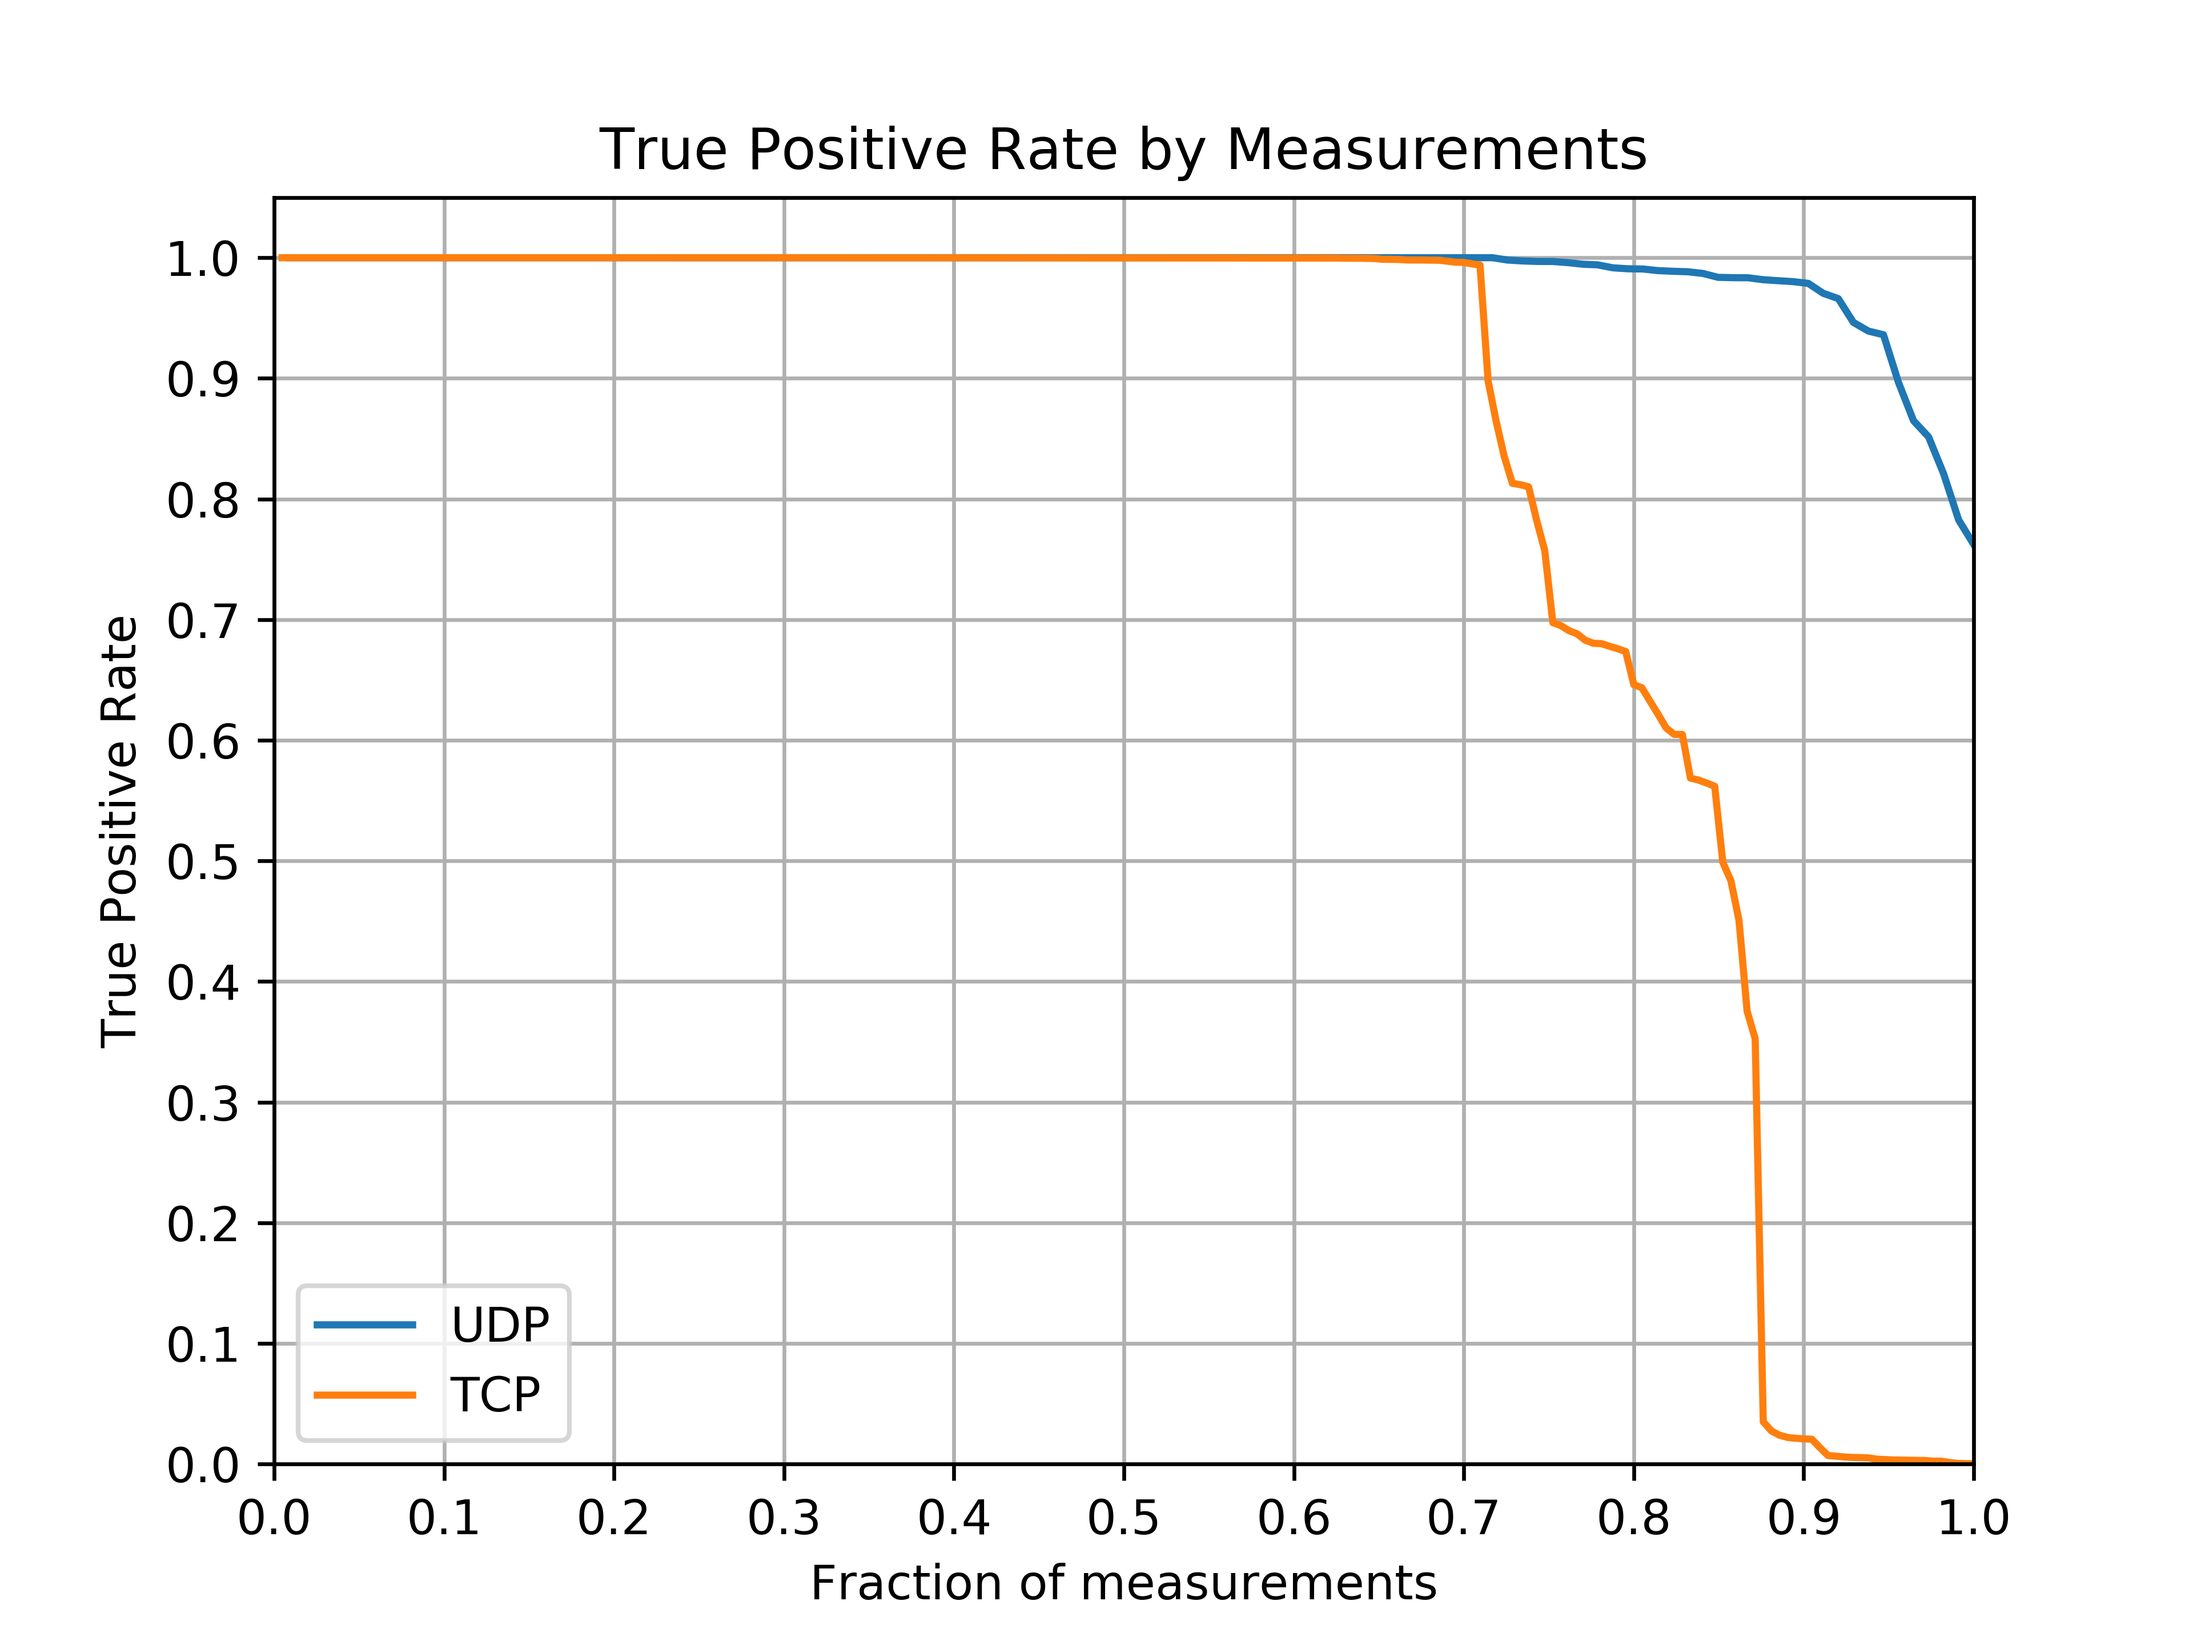
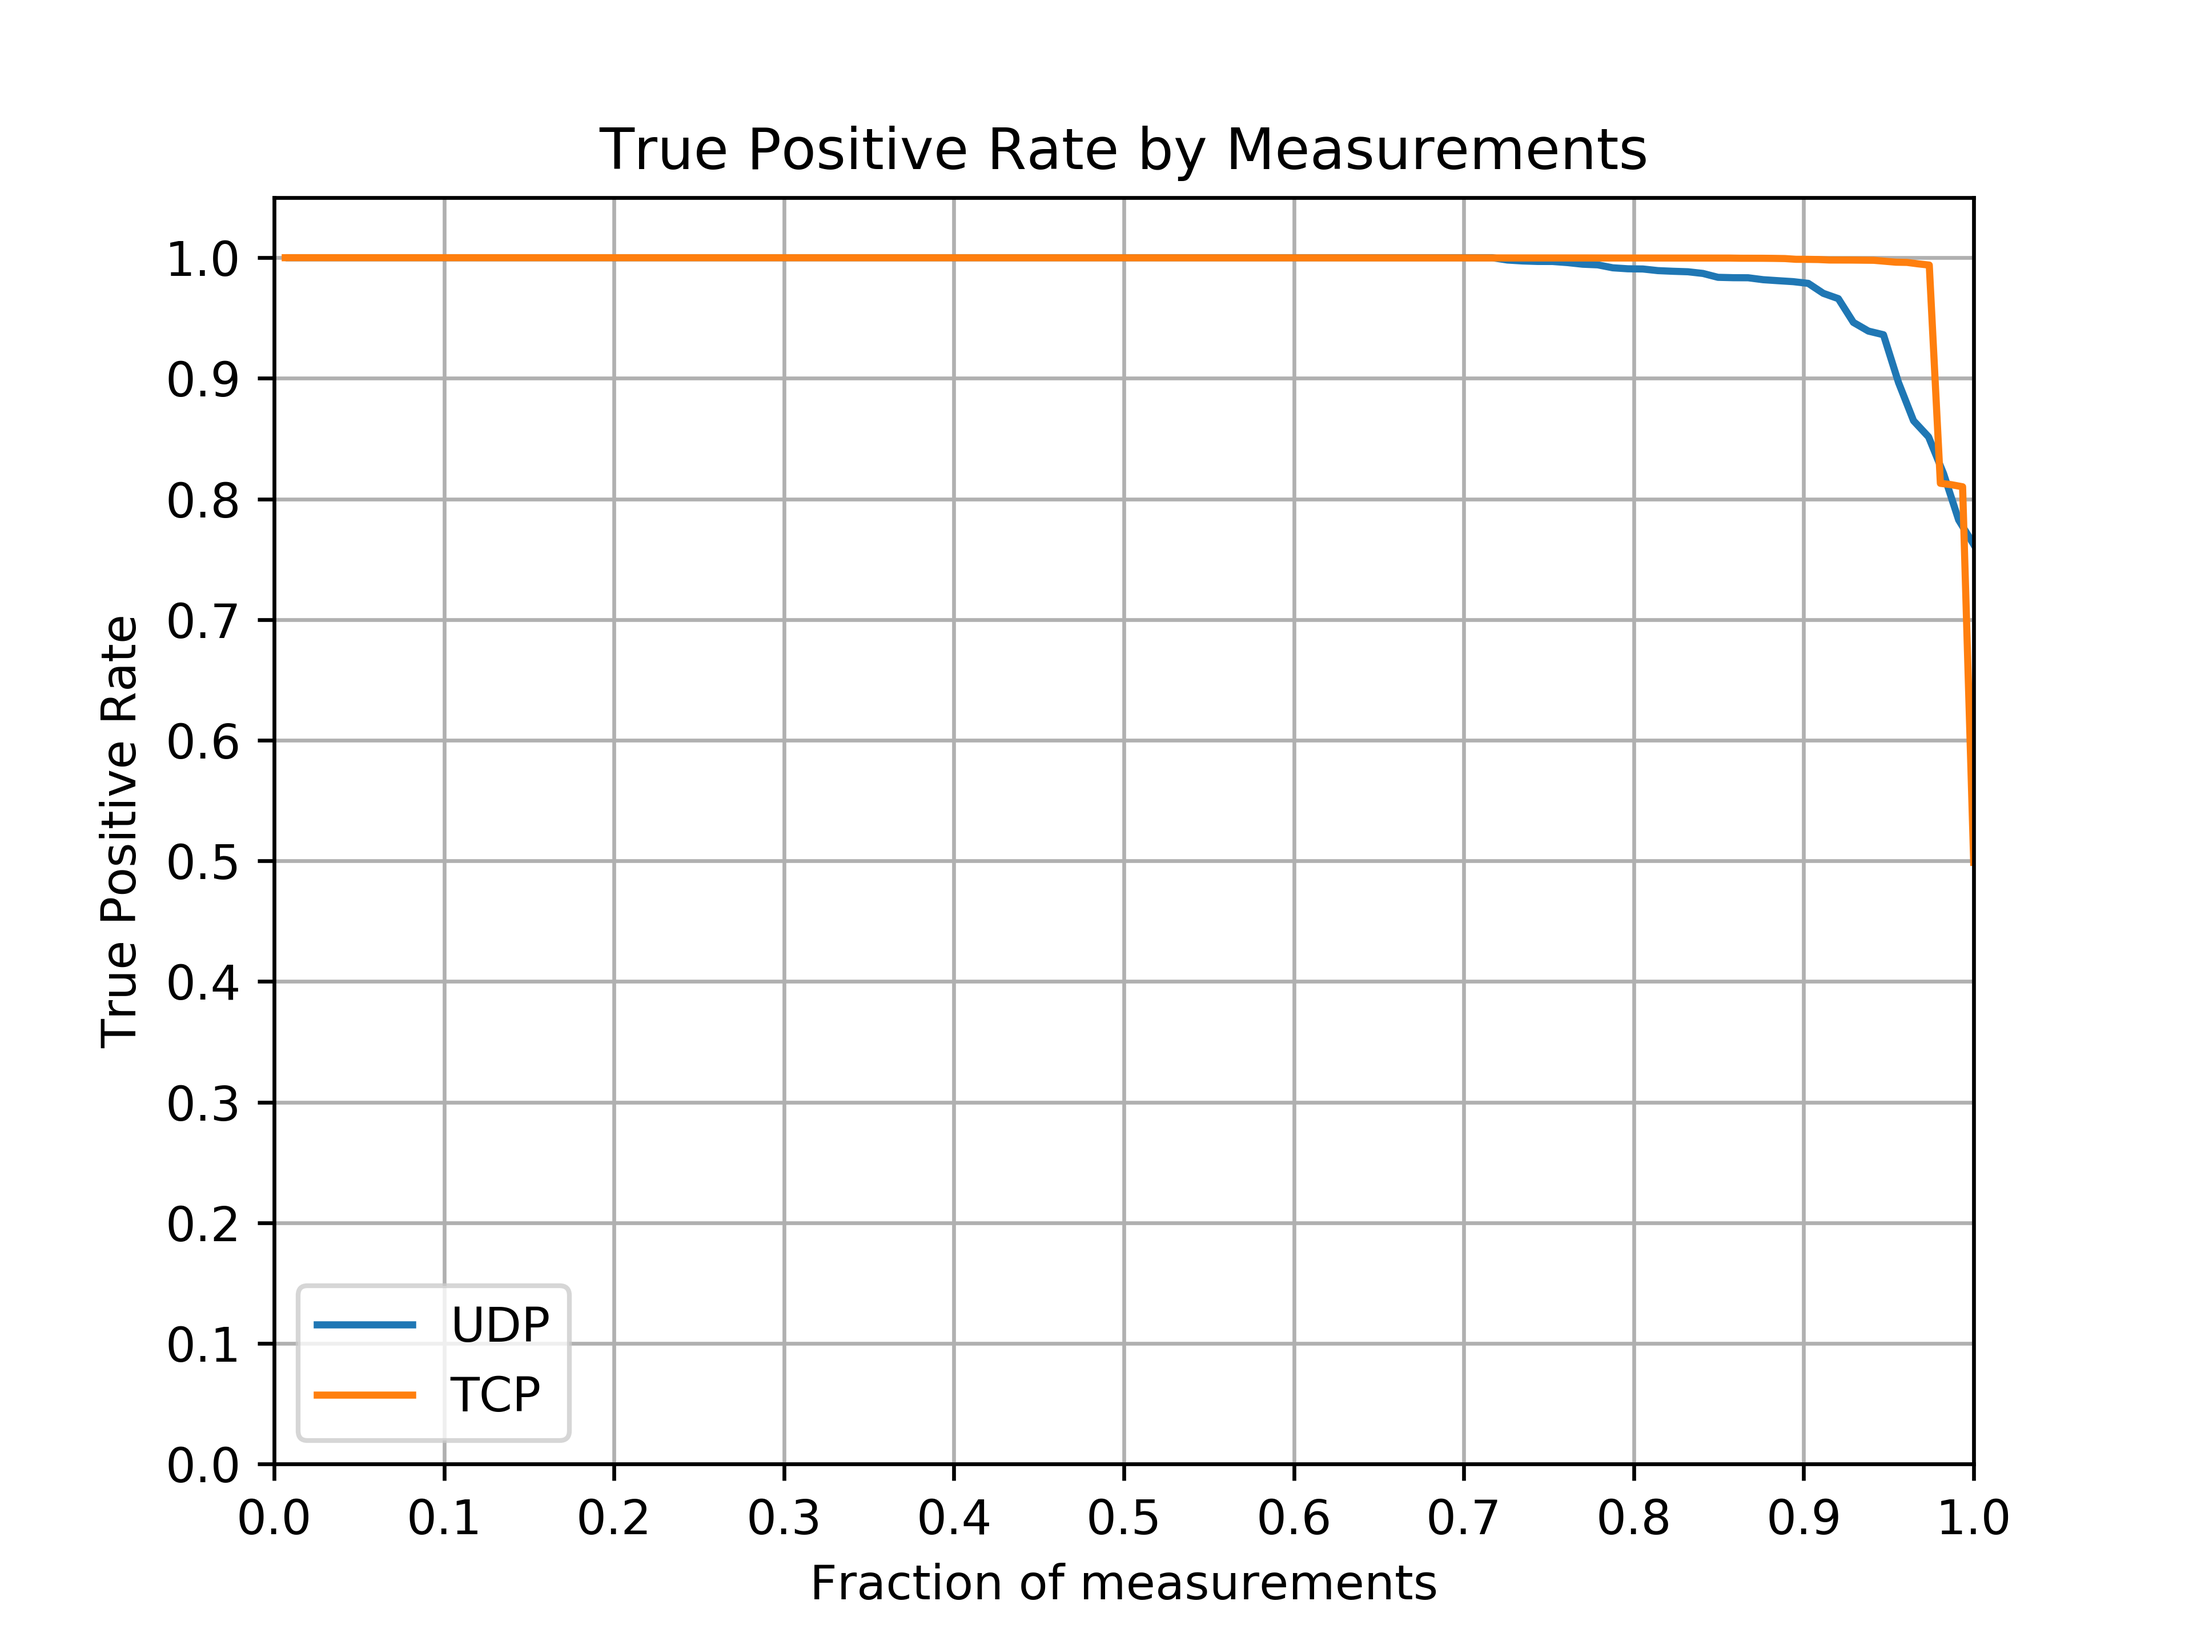
Analyzed 'wrong results'

diff --git a/src/Analysis.py b/src/Analysis.py
@@ -2,6 +2,10 @@ import csv
 
 import matplotlib.pyplot as plt
 
+from Util import file_str
+
+FaultyUnits = file_str('faulty_fingerprints.txt').split('\n')
+
 
 class Data:
     def __init__(self, csv_file):
@@ -47,6 +51,8 @@ class Data:
             for row in self:
                 if t[2](row):
                     t_x.append(t[0](row))
+                    if t[1](row) <= 0.3:
+                        print()
                     t_y.append(t[1](row))
 
             plt.scatter(t_x, t_y, label=t[3], marker=marker)
@@ -180,7 +186,7 @@ def is_tcp(data):
 
 
 def check(data):
-    return int(data['TP']) + int(data['TN']) + int(data['FP']) + int(data['FN']) > 0
+    return data['name'] not in FaultyUnits and int(data['TP']) + int(data['TN']) + int(data['FP']) + int(data['FN']) > 0
 
 
 def scatter(data, props, prop_label, value, value_label, save=None):
@@ -237,4 +243,4 @@ def csv_graphs(data, name):
 
 if __name__ == '__main__':
     d = Data('results/combined/combined_reduced_all_but_one.csv')
-    csv_graphs(d, 'all_but_one')
+    scatter(d, true_positive_rate, 'True positive', true_negative_rate, 'True negative')
